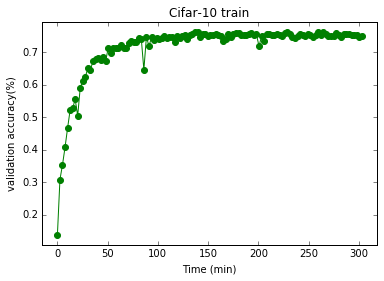
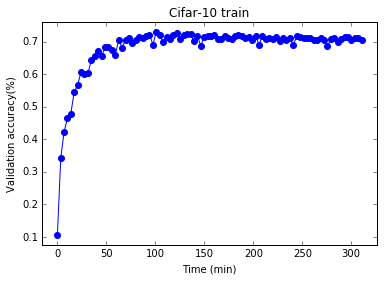
Site updated at 2016-02-22 10:33:23 UTC

diff --git a/index.html b/index.html
@@ -127,13 +127,27 @@
 
 <p>UC Berkeley <a href="http://caffe.berkeleyvision.org">Caffe</a>计算框架中，用配置文件的方式来定义模型，独立于代码，因此模型的定义很清晰也易于调整。本文就选择了其中的<a href="https://github.com/BVLC/caffe/blob/master/examples/cifar10/cifar10_quick.prototxt">快速示例</a>，作为基本模型，再逐步调优。</p>
 
-<p><img src="http://hack.the-lifematrix.net/images/cifar10-tf/cifar10_model_basic.png" alt="" width="100px" /></p>
+<p><img src="http://hack.the-lifematrix.net/images/cifar10-tf/cifar10_model_basic.png" alt="" width="300px" /></p>
 
 <p>由于训练集和测试集不算大，可以一次性全部读入内存，以下测试时给出的运行时间，就不包含读取图片的时间。</p>
 
 <p>基本模型的运行情况：</p>
 
 <p><img src="http://hack.the-lifematrix.net/images/cifar10-tf/time_basic.png" alt="" /></p>
+
+<p>最大正确校验正确率：73.08%，在epoch=30, 训练100分钟时达到。之后更多的训练没有提高正确率。</p>
+
+<h2 id="random-crop">Random Crop</h2>
+
+<p><img src="http://hack.the-lifematrix.net/images/cifar10-tf/time_randomcrop.png" alt="" /></p>
+
+<p>最大正确校验正确率：74.58%，在epoch=56, 训练137分钟时达到。之后更多的训练没有提高正确率。</p>
+
+<h2 id="dropout">Dropout</h2>
+
+<p><img src="http://hack.the-lifematrix.net/images/cifar10-tf/time_dropout.png" alt="" /></p>
+
+<p>最大正确校验正确率：76.22%，在epoch=103, 训练260分钟时达到。之后更多的训练没有提高正确率。</p>
 
 </div>
   

diff --git a/blog/2016/02/cifar10-on-tensorflow/index.html b/blog/2016/02/cifar10-on-tensorflow/index.html
@@ -124,13 +124,27 @@
 
 <p>UC Berkeley <a href="http://caffe.berkeleyvision.org">Caffe</a>计算框架中，用配置文件的方式来定义模型，独立于代码，因此模型的定义很清晰也易于调整。本文就选择了其中的<a href="https://github.com/BVLC/caffe/blob/master/examples/cifar10/cifar10_quick.prototxt">快速示例</a>，作为基本模型，再逐步调优。</p>
 
-<p><img src="http://hack.the-lifematrix.net/images/cifar10-tf/cifar10_model_basic.png" alt="" width="100px" /></p>
+<p><img src="http://hack.the-lifematrix.net/images/cifar10-tf/cifar10_model_basic.png" alt="" width="300px" /></p>
 
 <p>由于训练集和测试集不算大，可以一次性全部读入内存，以下测试时给出的运行时间，就不包含读取图片的时间。</p>
 
 <p>基本模型的运行情况：</p>
 
 <p><img src="http://hack.the-lifematrix.net/images/cifar10-tf/time_basic.png" alt="" /></p>
+
+<p>最大正确校验正确率：73.08%，在epoch=30, 训练100分钟时达到。之后更多的训练没有提高正确率。</p>
+
+<h2 id="random-crop">Random Crop</h2>
+
+<p><img src="http://hack.the-lifematrix.net/images/cifar10-tf/time_randomcrop.png" alt="" /></p>
+
+<p>最大正确校验正确率：74.58%，在epoch=56, 训练137分钟时达到。之后更多的训练没有提高正确率。</p>
+
+<h2 id="dropout">Dropout</h2>
+
+<p><img src="http://hack.the-lifematrix.net/images/cifar10-tf/time_dropout.png" alt="" /></p>
+
+<p>最大正确校验正确率：76.22%，在epoch=103, 训练260分钟时达到。之后更多的训练没有提高正确率。</p>
 
 </div>
 
